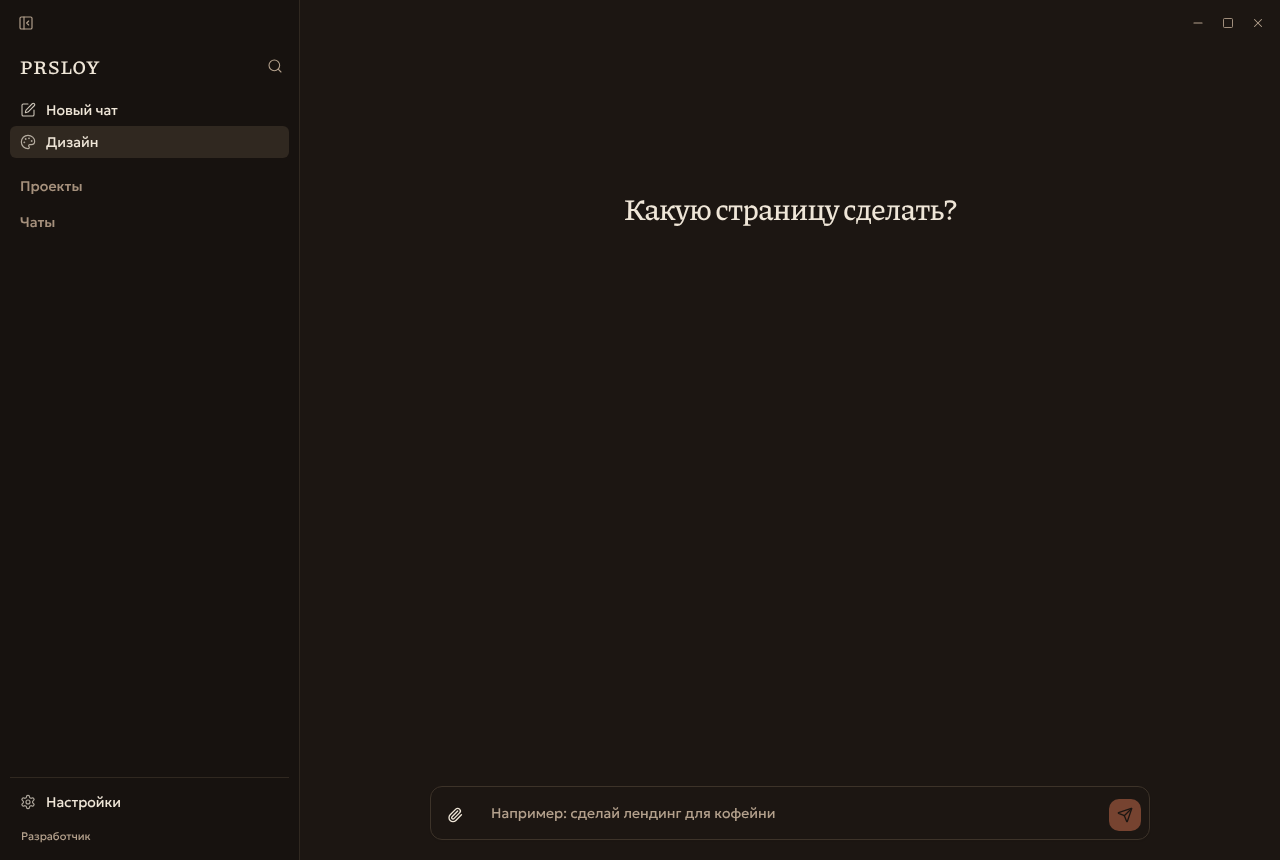
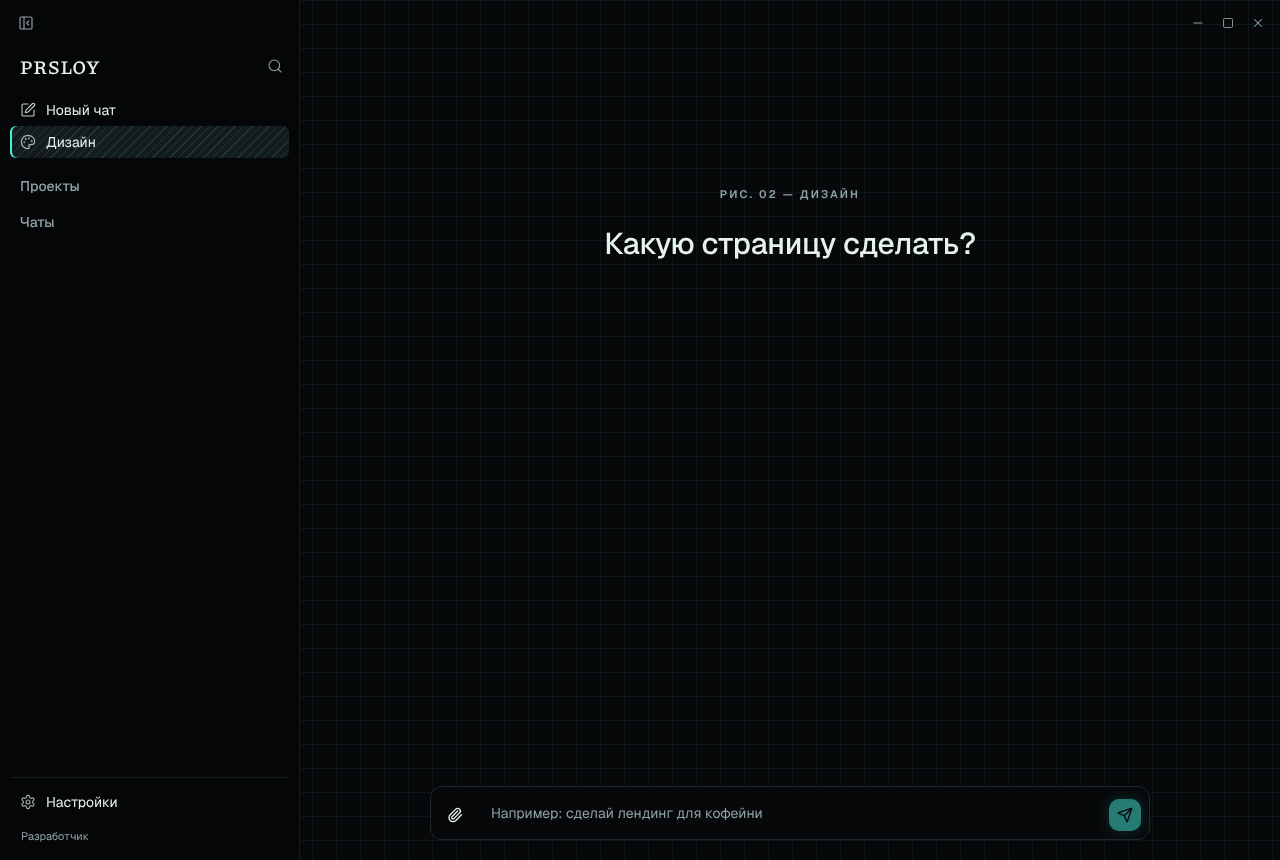
design: axe (WCAG A/AA) on the done card, «Настроить», «Править» and its result in both themes
Two findings fixed: the composer had no label once the stream had history (the placeholder
goes empty), and «рекомендую» on an option at 60% opacity fell under AA in the light theme
(now the muted-foreground token). Screens re-shot on ui's stage-10 tokens, light and dark.

Claude-Session: https://claude.ai/code/session_01LMkWU6xQwdDFjzrMeyQdTk

diff --git a/app/apps/desktop/e2e/design.spec.ts b/app/apps/desktop/e2e/design.spec.ts
@@ -5,6 +5,7 @@
  *
  * DESIGN_E2E_LOCALE picks the UI language (default: the app's own default).
  */
+import { AxeBuilder } from "@axe-core/playwright";
 import { expect, test, type Page } from "@playwright/test";
 import { _electron as electron, type ElectronApplication } from "playwright";
 import { execFileSync } from "node:child_process";
@@ -118,8 +119,27 @@ async function launch(opts: {
   return { app, page, root };
 }
 
+/** Screens of the built page and its tools: axe (WCAG A/AA, contrast included) in the theme under test. */
+const AXE_SCREENS = new Set(["done", "tweak", "edit", "edit-result", "edit-text"]);
+
+async function axeClean(page: Page, name: string) {
+  const result = await new AxeBuilder({ page })
+    .setLegacyMode(true)
+    .withTags(["wcag2a", "wcag2aa"])
+    // the owner's page inside the preview and the harness's pictures are not the app's UI
+    .exclude('[data-testid="design-preview"]')
+    .exclude('[data-testid="runtime-snapshot"]')
+    .analyze();
+  const found = result.violations.map((v: { id: string; nodes: { html: string }[] }) => ({
+    id: v.id,
+    nodes: v.nodes.slice(0, 5).map((n) => n.html.slice(0, 160)),
+  }));
+  expect(found, `axe on «${name}»`).toEqual([]);
+}
+
 async function shot(page: Page, name: string, settleMs = 250) {
   await page.waitForTimeout(settleMs);
+  if (AXE_SCREENS.has(name)) await axeClean(page, name);
   // DESIGN_E2E_THEME=dark → design-dark-<name>.png next to the light set.
   const theme = process.env.DESIGN_E2E_THEME;
   const suffix = theme && theme !== "light" ? `${theme}-` : "";

diff --git a/app/apps/desktop/src/renderer/components/design/DesignPage.tsx b/app/apps/desktop/src/renderer/components/design/DesignPage.tsx
@@ -320,6 +320,7 @@ export function DesignPage({ locale, projectPath }: Props) {
             </Button>
             <Textarea
               data-testid="design-input"
+              aria-label={tr("design.input")}
               className="max-h-48 min-h-9 flex-1 resize-none border-0 bg-transparent shadow-none focus-visible:ring-0 dark:bg-transparent"
               placeholder={view.items.length === 0 ? tr("design.placeholder") : ""}
               value={draft}
@@ -634,7 +635,11 @@ function OwnerChoices({
                   {isLetterKey(o.key) ? <span className="font-semibold">{o.key}</span> : null}
                   {optionLabel(o) ? <span>{optionLabel(o)}</span> : null}
                   {o.recommended ? (
-                    <span className="text-xs opacity-60">{tr("design.recommended")}</span>
+                    <span
+                      className={cn("text-xs", picked ? "opacity-90" : "text-muted-foreground")}
+                    >
+                      {tr("design.recommended")}
+                    </span>
                   ) : null}
                 </Button>
               );

diff --git a/app/apps/desktop/src/renderer/lib/locales/design.ru.ts b/app/apps/desktop/src/renderer/lib/locales/design.ru.ts
@@ -45,6 +45,7 @@ export const designRu: Record<keyof typeof designZh, string> = {
   "design.setup.browser": "Проверяю браузер",
   "design.retry": "Попробовать ещё раз",
   "design.empty": "Какую страницу сделать?",
+  "design.input": "Сообщение для «Дизайна»",
   "design.placeholder": "Например: сделай лендинг для кофейни",
   "design.send": "Отправить",
   "design.attach": "Приложить файлы",

diff --git a/app/apps/desktop/src/renderer/lib/locales/design.en.ts b/app/apps/desktop/src/renderer/lib/locales/design.en.ts
@@ -44,6 +44,7 @@ export const designEn: Record<keyof typeof designZh, string> = {
   "design.setup.browser": "Checking the browser",
   "design.retry": "Try again",
   "design.empty": "What page should we make?",
+  "design.input": "Message to Design",
   "design.placeholder": "For example: make a landing page for a coffee shop",
   "design.send": "Send",
   "design.attach": "Attach files",

diff --git a/app/apps/desktop/src/renderer/lib/locales/design.zh.ts b/app/apps/desktop/src/renderer/lib/locales/design.zh.ts
@@ -42,6 +42,7 @@ export const designZh = {
   "design.setup.browser": "检查浏览器",
   "design.retry": "重试",
   "design.empty": "要做什么页面？",
+  "design.input": "发给「设计」的消息",
   "design.placeholder": "例如：为咖啡馆做一个落地页",
   "design.send": "发送",
   "design.attach": "附加文件",
